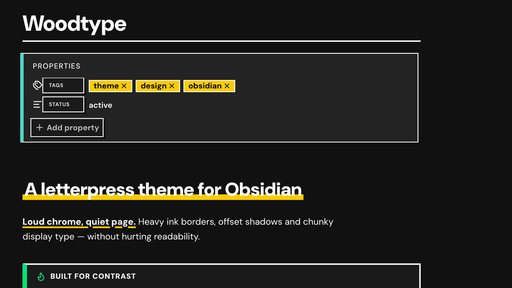
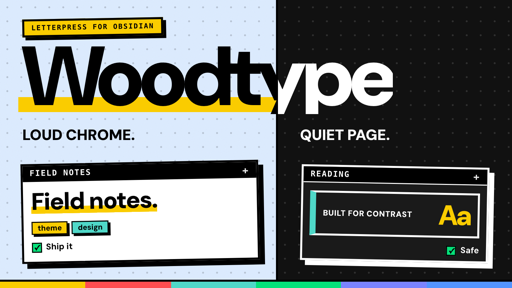
design: replace community cover with a purpose-built 512x288 thumbnail

diff --git a/README.md b/README.md
@@ -4,7 +4,7 @@
 heavy ink borders, hard offset shadows and chunky display type, built so text
 never disappears into its background.
 
-![Woodtype](screenshot.png)
+![Woodtype](screenshots/cover-large.png)
 
 ## Features
 
